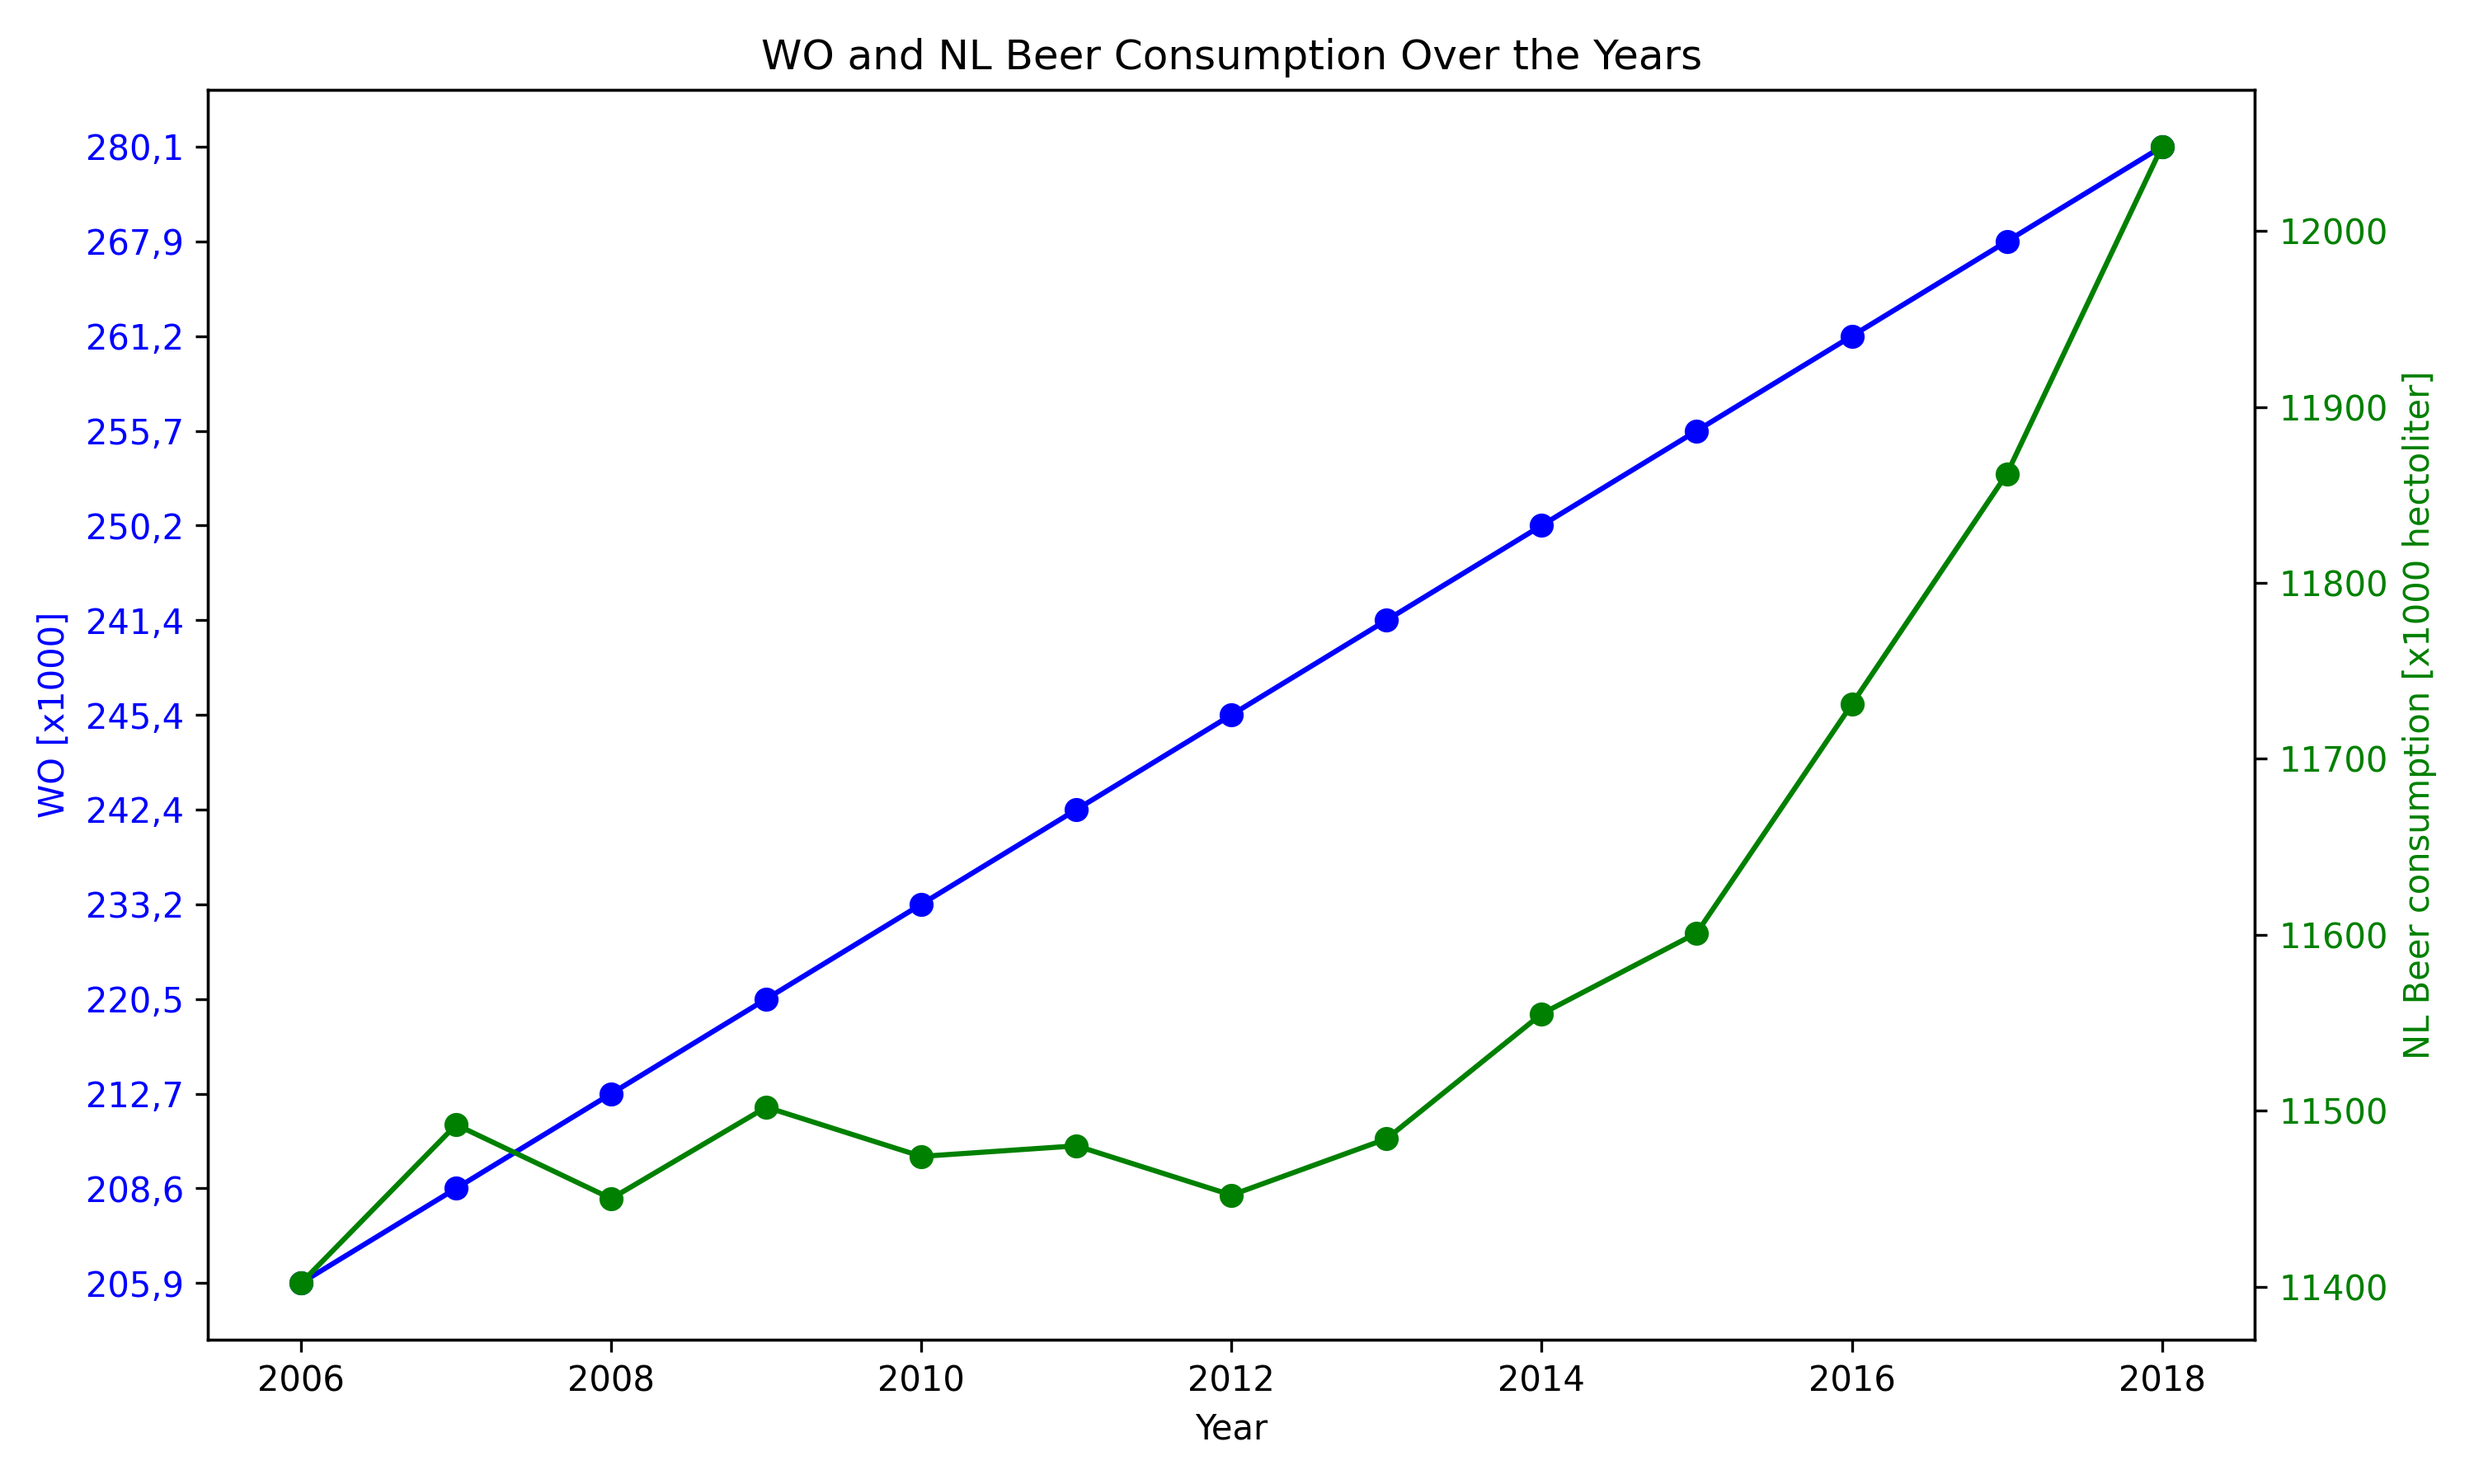
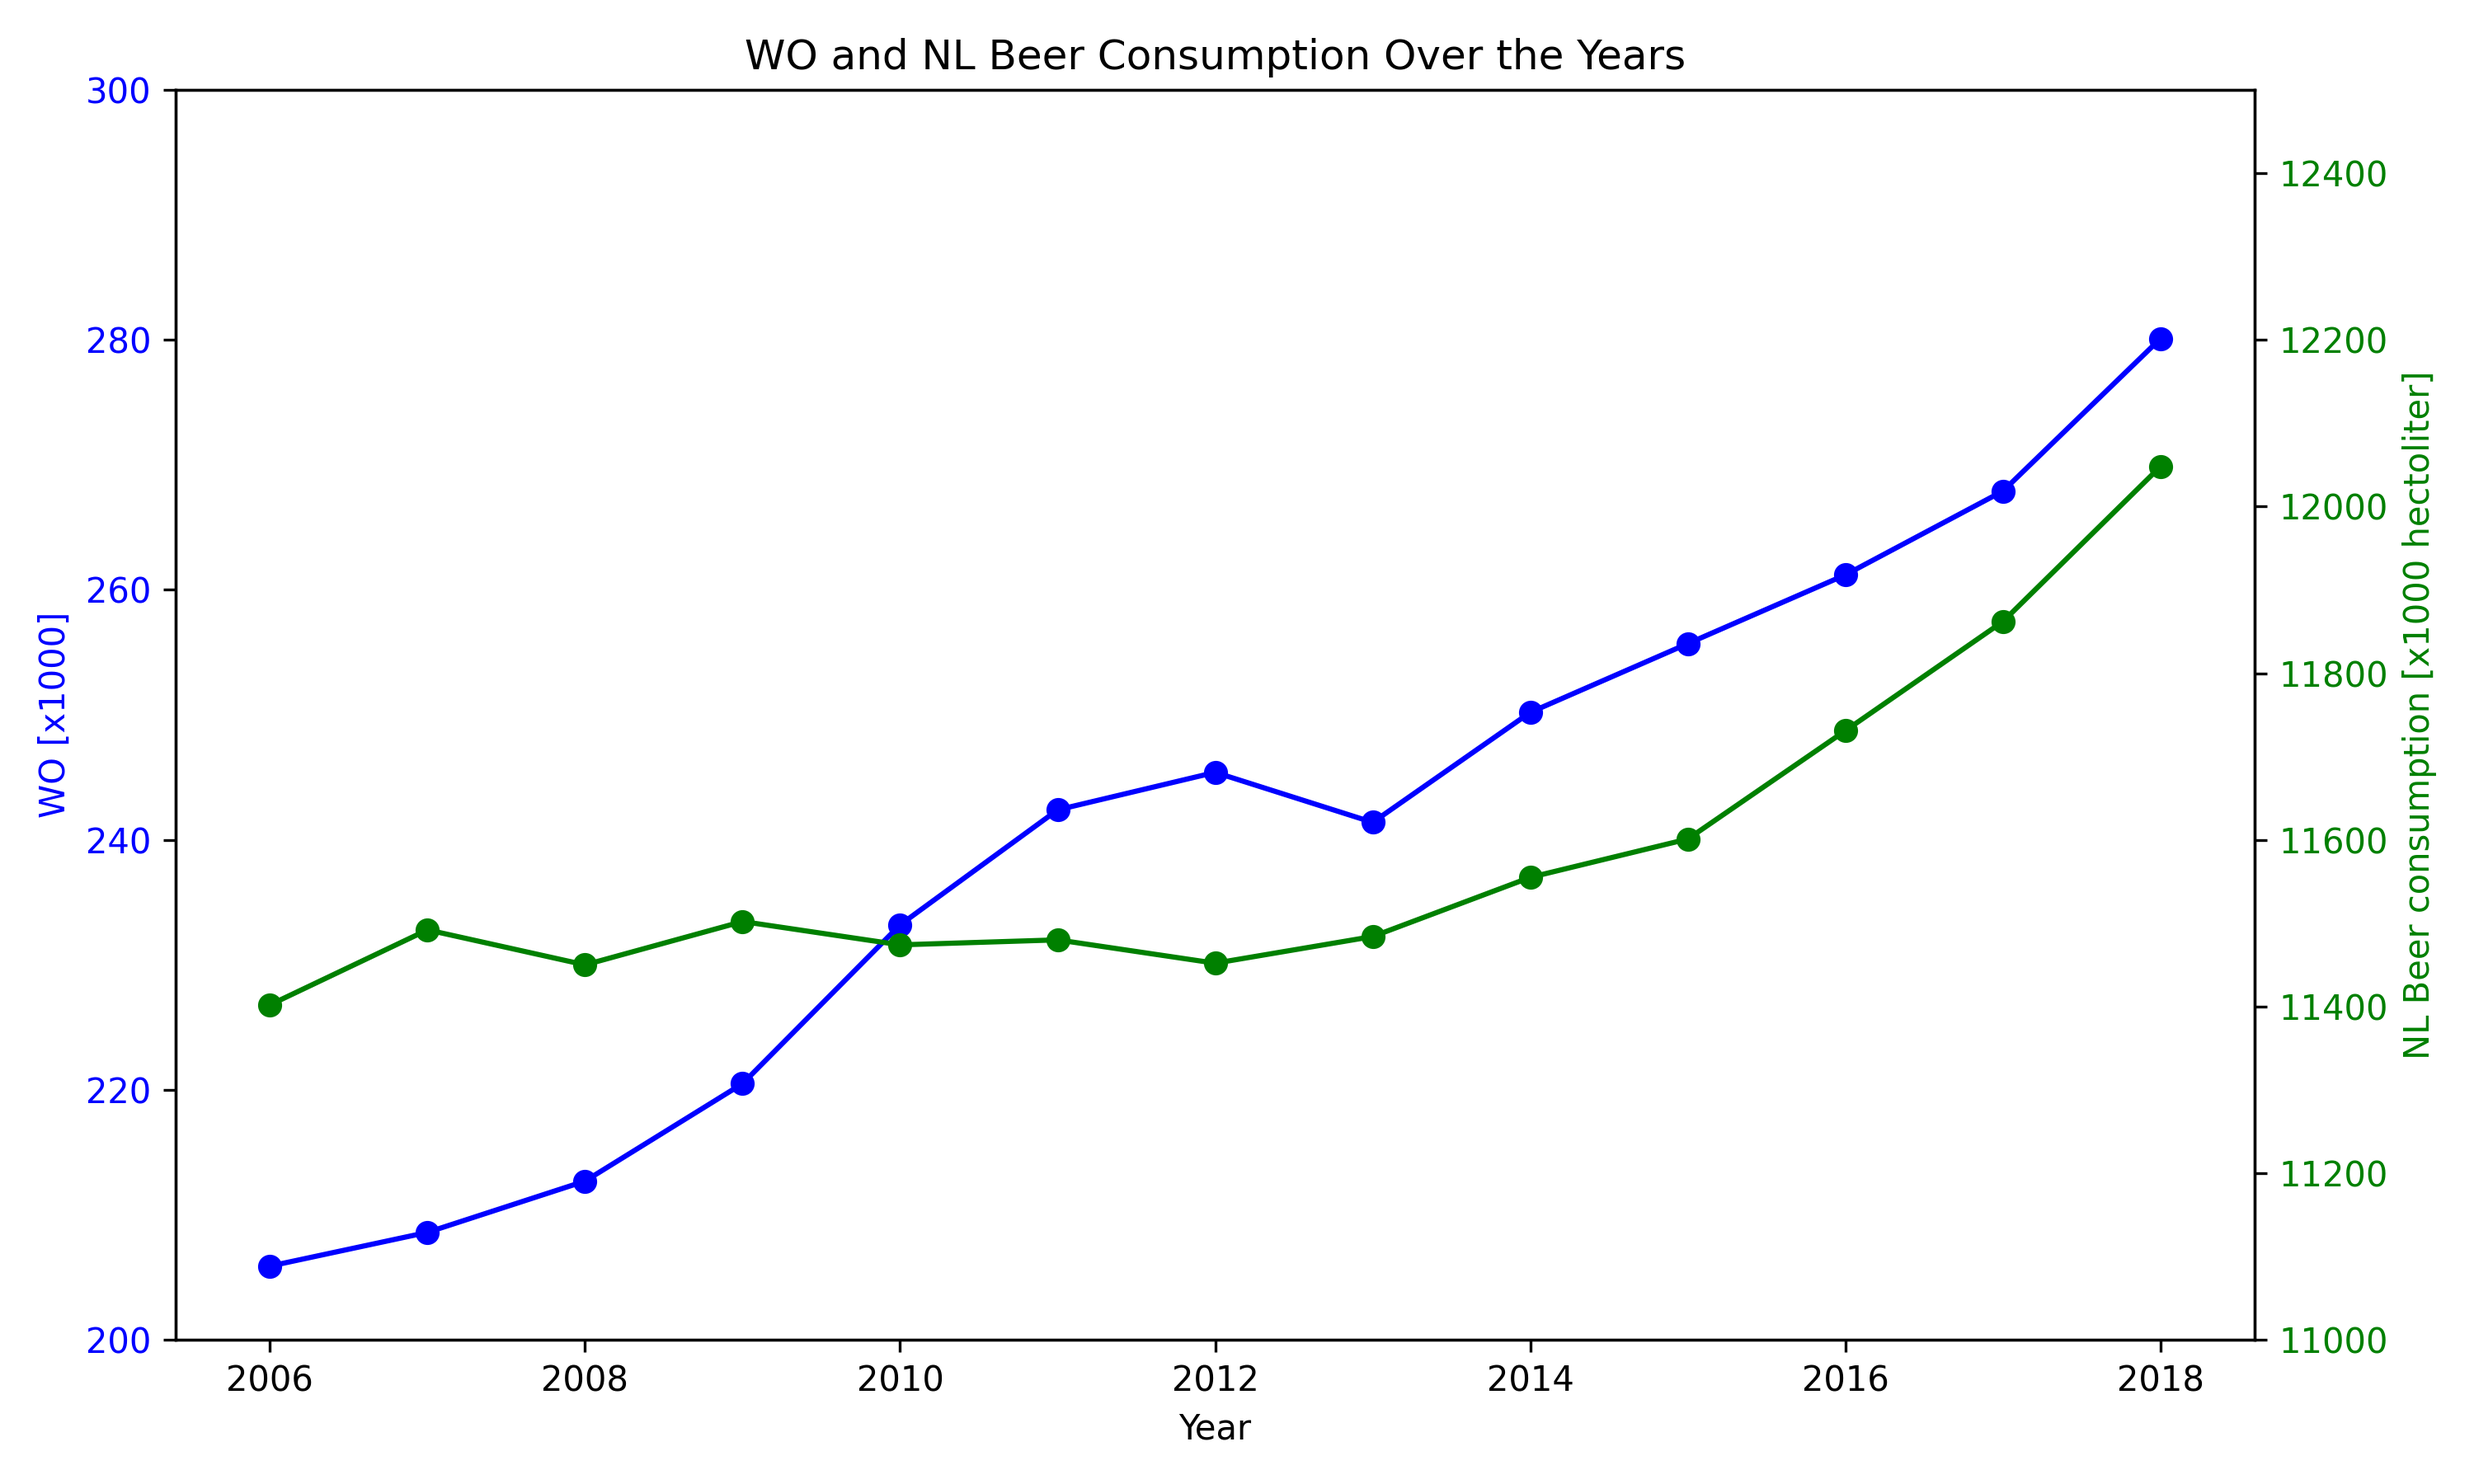
code update

diff --git a/solution_.py b/solution_.py
@@ -1,10 +1,11 @@
 import pandas as pd
 import matplotlib.pyplot as plt
 
-# Loading the dataset 
+# Loading the dataset
 data = pd.read_csv('istherecorrelation.csv', delimiter=';')
+data['WO [x1000]'] = data['WO [x1000]'].str.replace(',', '.').astype(float)
 
-# Creating the figure and axis for WO
+# Creating the figure and the first axis (for WO)
 fig, ax1 = plt.subplots(figsize=(10, 6))
 
 # Plotting WO on the first y-axis
@@ -13,13 +14,21 @@ ax1.set_ylabel('WO [x1000]', color='blue')
 ax1.plot(data['Year'], data['WO [x1000]'], label='WO [x1000]', color='blue', marker='o')
 ax1.tick_params(axis='y', labelcolor='blue')
 
+# Setting a y-axis range for WO
+ax1.set_ylim([200, 300])  
+
 # Creating a second y-axis for NL Beer consumption
 ax2 = ax1.twinx()  
-ax2.set_ylabel('NL Beer consumption [x1000 hectoliter]', color='green')  
+ax2.set_ylabel('NL Beer consumption [x1000 hectoliter]', color='green')
 ax2.plot(data['Year'], data['NL Beer consumption [x1000 hectoliter]'], label='NL Beer Consumption', color='green', marker='o')
 ax2.tick_params(axis='y', labelcolor='green')
 
+# Setting a y-axis range for NL Beer consumption
+ax2.set_ylim([11000, 12500])  
+
+# Showing the plot
 plt.title('WO and NL Beer Consumption Over the Years')
 fig.tight_layout()  
 plt.savefig('wo_beer.png', dpi=300)
 plt.show()
+
